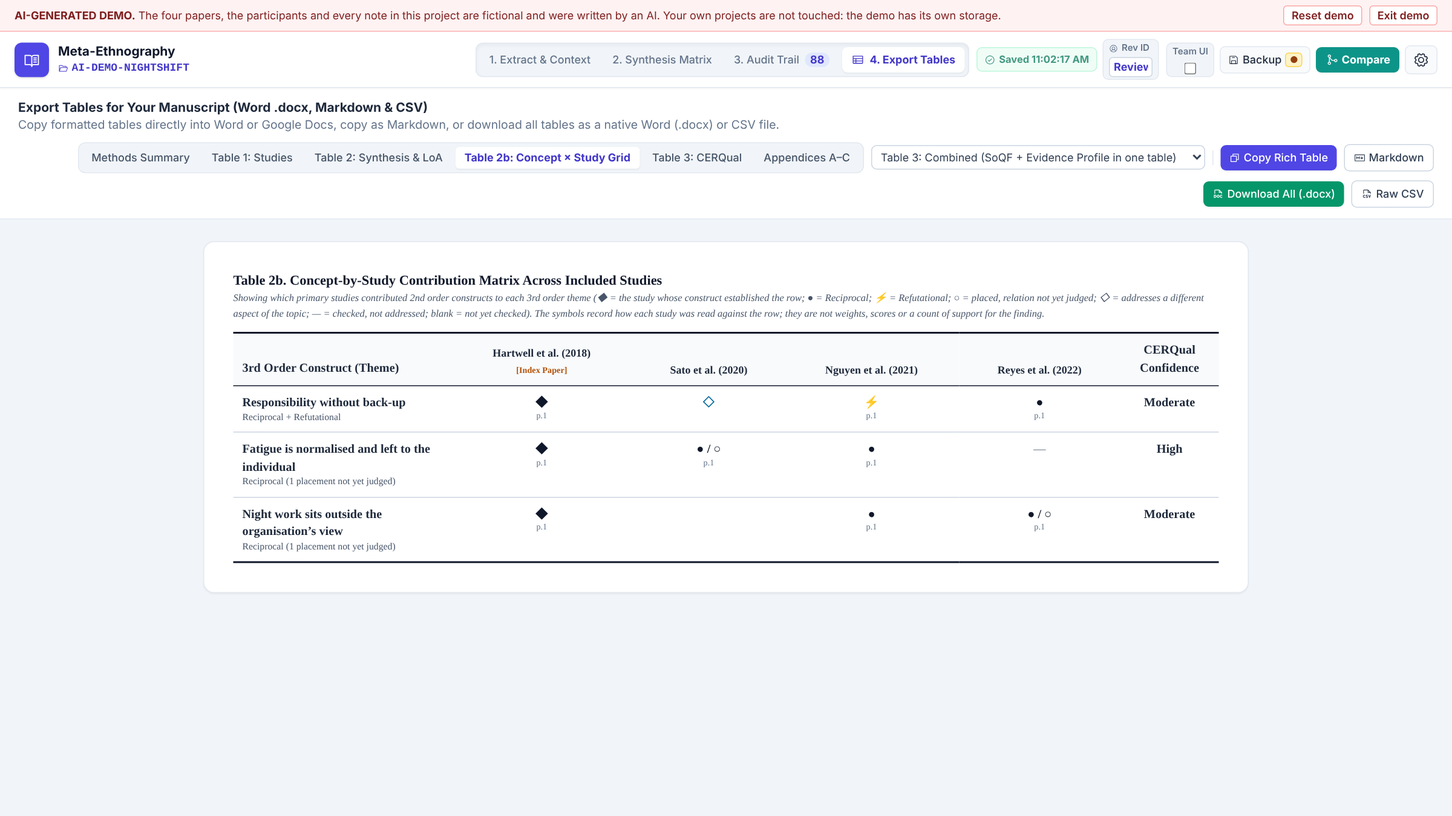
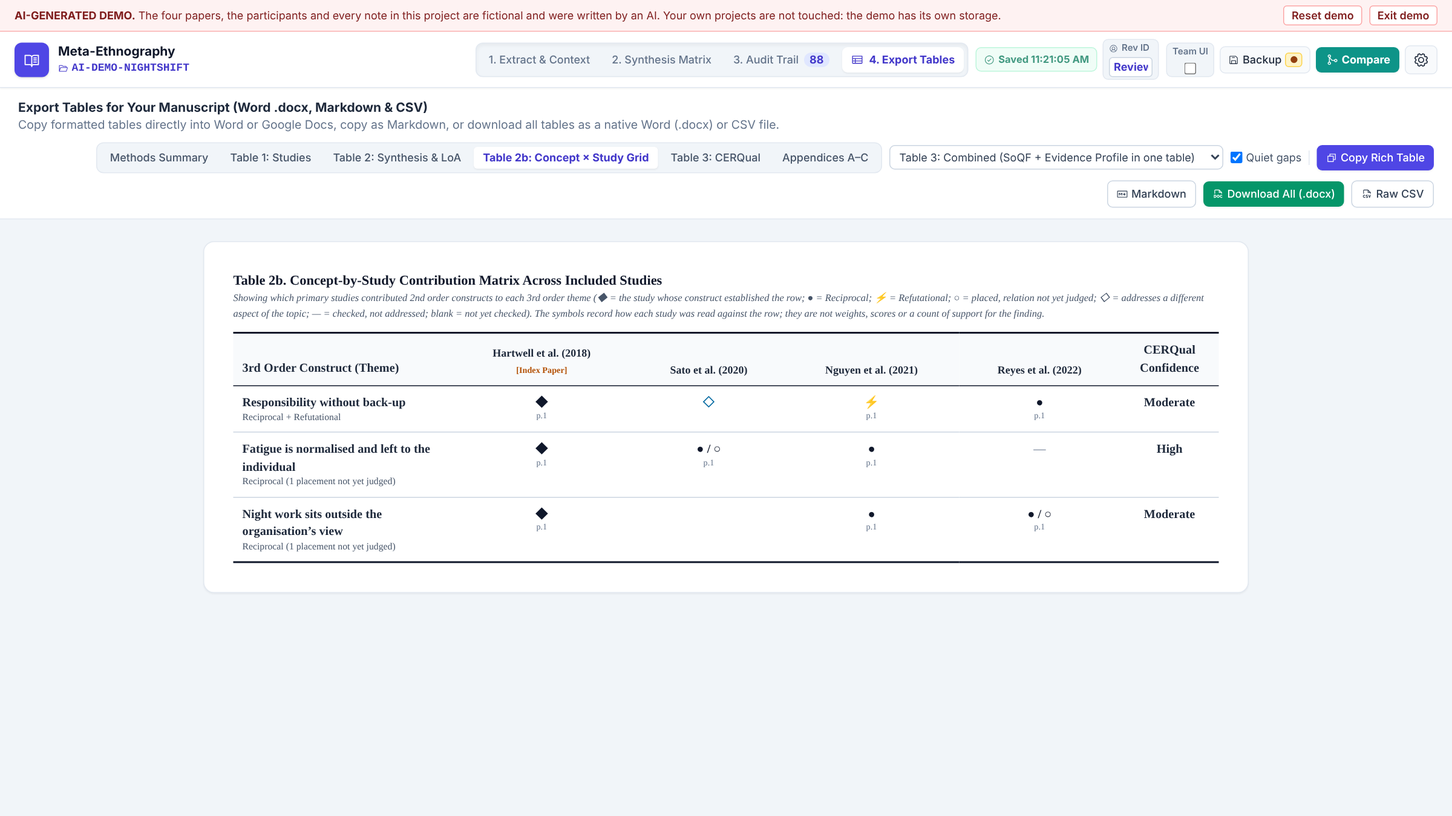
Merge and split rows; quieter write-up gaps while working
- Tab 2: a merge/split button in each row header. Merge moves the row's
  cards into another row with their judgements and notes, adds its Step A,
  Step B, reflexive, team and CERQual-explanation texts to the other row
  (marked with their origin), keeps the other row's CERQual ratings,
  re-points concept-map relations and removes the row. Split moves ticked
  cards into a new row right below. Both are logged with a reason and
  undone with Ctrl+Z; a row's history (historyFrom, logIsForRow) includes
  the rows it absorbed or came from.
- Tab 4: "Quiet gaps" (on by default) shows the [Author to insert] gaps in
  grey in the preview; exports keep the full text. The Methods Summary says
  the gaps are for the write-up.
- Manual, CLAUDE.md, screenshots, smoke tests (merge, split, exact undo,
  quiet gaps, exports unchanged).

Claude-Session: https://claude.ai/code/session_01T9KsJ7E386yhVUZcr5Fo9b

diff --git a/app/js/matrix.js b/app/js/matrix.js
@@ -890,13 +890,14 @@ function renderMatrixTable() {
             <span class="text-xs font-bold uppercase tracking-wider text-indigo-700 bg-indigo-50 px-1.5 py-0.5 rounded">3rd Order</span>
             <button type="button" class="cl-rev-btn text-[11px] bg-slate-200 hover:bg-indigo-100 text-slate-700 px-1.5 py-0.2 rounded font-mono cursor-pointer" title="Click to change reviewer for this 3rd Order row">@${escapeHtml(cluster.by || 'Unknown')}</button>
             <span class="cl-conc-pill text-[11px] px-1.5 py-0.2 rounded border font-semibold ${cBadge.cls}">${cBadge.label}</span>
-            ${(() => { const n = state.logs.filter(l => (l.clusterIds || []).includes(cluster.id)).length; return n ? `<button type="button" class="cl-history-btn text-[11px] px-1.5 py-0.2 rounded border border-purple-300 bg-purple-50 text-purple-800 font-semibold cursor-pointer hover:bg-purple-100" title="Open this row's history in the Audit Trail (${n} entr${n === 1 ? 'y' : 'ies'})">🕘 ${n}</button>` : ''; })()}
+            ${(() => { const n = state.logs.filter(l => logIsForRow(l, cluster)).length; return n ? `<button type="button" class="cl-history-btn text-[11px] px-1.5 py-0.2 rounded border border-purple-300 bg-purple-50 text-purple-800 font-semibold cursor-pointer hover:bg-purple-100" title="Open this row's history in the Audit Trail (${n} entr${n === 1 ? 'y' : 'ies'})">🕘 ${n}</button>` : ''; })()}
             ${cluster.autoSeeded && !cluster.seedConfirmed ? `<button type="button" class="cl-seed-confirm text-[11px] px-1.5 py-0.2 rounded border border-amber-400 bg-amber-100 text-amber-900 font-semibold cursor-pointer" title="Auto-placed from the Index Paper's 2nd order construct. The title is still the primary authors' wording, not yet your 3rd order interpretation. Click once you have reviewed / rewritten it.">🌱 Provisional · click to confirm</button>` : ''}
             <span class="cl-cerqual-pill text-[11px] px-1.5 py-0.2 rounded border font-semibold ${cqBadge.cls}">${cqBadge.label}</span>
           </div>
           <div class="flex items-center space-x-1">
             <button type="button" class="move-cl-up px-1.5 py-0.2 bg-white border border-slate-200 rounded hover:bg-slate-100 text-slate-600 disabled:opacity-30 cursor-pointer text-[11px]" ${state.clusters.indexOf(cluster) === 0 ? 'disabled' : ''} title="Move row up">▲</button>
             <button type="button" class="move-cl-down px-1.5 py-0.2 bg-white border border-slate-200 rounded hover:bg-slate-100 text-slate-600 disabled:opacity-30 cursor-pointer text-[11px]" ${state.clusters.indexOf(cluster) === state.clusters.length - 1 ? 'disabled' : ''} title="Move row down">▼</button>
+            <button type="button" class="cl-rowops text-slate-400 hover:text-indigo-600 cursor-pointer ml-1" title="Merge this row into another, or split some of its cards into a new row"><i class="ph ph-git-merge"></i></button>
             <button class="del-cluster text-slate-400 hover:text-rose-500 cursor-pointer ml-1" title="Delete Row"><i class="ph ph-trash"></i></button>
           </div>
         </div>
@@ -1311,6 +1312,7 @@ function renderMatrixTable() {
       bindPendingCommit(tdMeta.querySelector(sel), saveCerqualChanges);
     });
 
+    tdMeta.querySelector('.cl-rowops').onclick = () => openRowOps(cluster);
     tdMeta.querySelector('.del-cluster').onclick = async () => {
       if (!confirm('Remove this 3rd Order row? Assigned 2nd Order Constructs will remain in the pool/other rows. (You can Undo with Ctrl+Z)')) return;
       const assigned = state.annotations.filter(a => a.type === 'second_order' && a.clusterIds?.includes(cluster.id));
@@ -1828,3 +1830,135 @@ function closeRefutationMap() {
 }
 document.getElementById('refutMapBtn').addEventListener('click', openRefutationMap);
 document.getElementById('refutMapCloseBtn').addEventListener('click', closeRefutationMap);
+
+// ========================================================
+// MERGE / SPLIT ROWS: interpretive decisions, logged with a reason, undoable; nothing written is lost
+// ========================================================
+let rowOpsCluster = null;
+const rowOpsModal = document.getElementById('rowOpsModal');
+function closeRowOps() { rowOpsModal.classList.add('hidden'); rowOpsModal.classList.remove('flex'); rowOpsCluster = null; }
+document.getElementById('rowOpsCloseBtn').onclick = closeRowOps;
+rowOpsModal.addEventListener('click', e => { if (e.target === rowOpsModal) closeRowOps(); });
+
+function rowSecs(c) { return state.annotations.filter(a => a.type === 'second_order' && (a.clusterIds || []).includes(c.id)); }
+function openRowOps(cluster) {
+  flushAllPendingSaves();
+  rowOpsCluster = cluster;
+  document.getElementById('rowOpsTitle').textContent = `Merge or split: ${clusterLabel(cluster)}`;
+  const others = state.clusters.filter(c => c.id !== cluster.id);
+  const sel = document.getElementById('rowOpsMergeTarget');
+  sel.innerHTML = others.length ? others.map(c => `<option value="${escapeHtml(c.id)}">${escapeHtml(clusterLabel(c))}</option>`).join('') : '<option value="">(no other row)</option>';
+  document.getElementById('rowOpsMergeBtn').disabled = !others.length;
+  const secs = rowSecs(cluster);
+  document.getElementById('rowOpsSplitList').innerHTML = secs.length
+    ? secs.map(s => { const d = state.docs.find(x => x.id === s.docId); return `<label class="flex items-start gap-1.5 cursor-pointer"><input type="checkbox" class="row-split-pick mt-0.5" value="${escapeHtml(s.id)}"><span><b>${escapeHtml(d ? getDisplayName(d) : 'Study')}</b> — ${escapeHtml(s.note || String(s.text || '').slice(0, 90))}</span></label>`; }).join('')
+    : '<div class="text-slate-400 italic">No cards in this row.</div>';
+  document.getElementById('rowOpsSplitTitle').value = '';
+  document.getElementById('rowOpsWhy').value = '';
+  rowOpsModal.classList.remove('hidden'); rowOpsModal.classList.add('flex');
+}
+const deepCopy = o => JSON.parse(JSON.stringify(o));
+// Text carried from another row is kept, marked with where it came from
+const carryText = (into, from, title) => from && from.trim() ? (into && into.trim() ? into.trim() + '\n\n' : '') + `[From row "${title}"] ` + from.trim() : (into || '');
+
+async function mergeRows(src, tgt, why) {
+  const srcTitle = clusterLabel(src), tgtTitle = clusterLabel(tgt);
+  const secs = rowSecs(src);
+  pushUndoAction({ type: 'row_merge', label: `Merge "${srcTitle.slice(0, 24)}" into "${tgtTitle.slice(0, 24)}"`,
+    src: deepCopy(src), tgt: deepCopy(tgt), annotations: deepCopy(secs), loa: deepCopy(state.loa) });
+  let moved = 0;
+  for (const s of secs) {
+    normalizeAnnotation(s);
+    s.clusterRelations = s.clusterRelations || {}; s.clusterComments = s.clusterComments || {};
+    if (!s.clusterIds.includes(tgt.id)) {
+      s.clusterIds.push(tgt.id); moved++;
+      if (s.clusterRelations[src.id]) s.clusterRelations[tgt.id] = s.clusterRelations[src.id];
+      if (s.clusterComments[src.id]) s.clusterComments[tgt.id] = s.clusterComments[src.id];
+    } else if (s.clusterComments[src.id] && s.clusterComments[src.id] !== s.clusterComments[tgt.id]) {
+      s.clusterComments[tgt.id] = carryText(s.clusterComments[tgt.id], s.clusterComments[src.id], srcTitle);
+    }
+    s.clusterIds = s.clusterIds.filter(id => id !== src.id);
+    delete s.clusterRelations[src.id]; delete s.clusterComments[src.id];
+    await dbPut('annotations', s);
+  }
+  normalizeCluster(tgt);
+  ['translationSummary', 'synthesisNote', 'reflexiveNote', 'concordanceNote', 'cerqualExplanation'].forEach(k => { tgt[k] = carryText(tgt[k], src[k], srcTitle); });
+  // Empty-cell statuses: kept where the merged row still has nothing of that study
+  Object.entries(src.cellStatus || {}).forEach(([docId, v]) => {
+    const hasCard = rowSecs(tgt).some(a => a.docId === docId);
+    if (!hasCard && !(tgt.cellStatus && tgt.cellStatus[docId])) tgt.cellStatus[docId] = v;
+  });
+  Object.keys(tgt.cellStatus || {}).forEach(docId => { if (rowSecs(tgt).some(a => a.docId === docId)) delete tgt.cellStatus[docId]; });
+  if (!rowBaseDocId(tgt) && rowBaseDocId(src)) tgt.baseDocId = src.baseDocId;
+  tgt.historyFrom = [...new Set([...(tgt.historyFrom || []), src.id, ...(src.historyFrom || [])])];
+  await dbPut('clusters', tgt);
+  // Concept-map relations follow the row; a relation of the two rows to each other, or a duplicate, is dropped
+  if (Array.isArray(state.loa.links)) {
+    const seen = new Set(); const out = [];
+    state.loa.links.forEach(l => {
+      const n = { ...l, from: l.from === src.id ? tgt.id : l.from, to: l.to === src.id ? tgt.id : l.to };
+      const key = n.from + '|' + n.to + '|' + n.type;
+      if (n.from !== n.to && !seen.has(key)) { seen.add(key); out.push(n); }
+    });
+    state.loa = { ...state.loa, links: out }; await dbPut('meta', state.loa);
+  }
+  await dbDelete('clusters', src.id);
+  state.clusters = state.clusters.filter(c => c.id !== src.id);
+  await recordAuditLog({
+    clusterIds: [tgt.id, src.id], category: 'third_order',
+    action: `Merged row "${srcTitle}" into "${tgtTitle}"`,
+    detail: `${moved} construct(s) moved with their judgements and notes; ${secs.length - moved} were already in "${tgtTitle}". Step A / Step B and other texts of "${srcTitle}" were added to "${tgtTitle}", marked with their origin. The CERQual ratings of "${tgtTitle}" were kept: re-read them for the merged finding.`,
+    fromVal: `${srcTitle} + ${tgtTitle}`, toVal: tgtTitle, rationale: why
+  });
+}
+
+async function splitRow(src, secIds, title, why) {
+  const srcTitle = clusterLabel(src);
+  const secs = rowSecs(src).filter(s => secIds.includes(s.id));
+  const nw = await createNewClusterRow(title, { silent: true });
+  const srcBase = rowBaseDocId(src);
+  nw.baseDocId = secs.some(s => s.docId === srcBase) ? srcBase : secs[0].docId;
+  nw.historyFrom = [src.id, ...(src.historyFrom || [])];
+  pushUndoAction({ type: 'row_split', label: `Split ${secs.length} card(s) off "${srcTitle.slice(0, 24)}"`, newId: nw.id, annotations: deepCopy(secs), order: state.clusters.map(c => c.id).filter(id => id !== nw.id) });
+  for (const s of secs) {
+    normalizeAnnotation(s);
+    s.clusterRelations = s.clusterRelations || {}; s.clusterComments = s.clusterComments || {};
+    s.clusterIds = s.clusterIds.filter(id => id !== src.id).concat(nw.id);
+    if (s.clusterRelations[src.id]) s.clusterRelations[nw.id] = s.clusterRelations[src.id];
+    if (s.clusterComments[src.id]) s.clusterComments[nw.id] = s.clusterComments[src.id];
+    delete s.clusterRelations[src.id]; delete s.clusterComments[src.id];
+    await dbPut('annotations', s);
+  }
+  await dbPut('clusters', nw);
+  // The new row sits right below the one it was split from
+  state.clusters = state.clusters.filter(c => c.id !== nw.id);
+  state.clusters.splice(state.clusters.findIndex(c => c.id === src.id) + 1, 0, nw);
+  await persistClusterOrder();
+  await recordAuditLog({
+    clusterIds: [src.id, nw.id], category: 'third_order',
+    action: `Split ${secs.length} construct(s) off "${srcTitle}" into a new row "${clusterLabel(nw)}"`,
+    detail: secs.map(s => { const d = state.docs.find(x => x.id === s.docId); return `${d ? getDisplayName(d) : 'Study'} (p.${s.page}): ${s.note || String(s.text || '').slice(0, 60)}`; }).join('\n'),
+    fromVal: srcTitle, toVal: `${srcTitle} | ${clusterLabel(nw)}`, rationale: why
+  });
+}
+
+document.getElementById('rowOpsMergeBtn').onclick = async () => {
+  const src = rowOpsCluster, tgt = state.clusters.find(c => c.id === document.getElementById('rowOpsMergeTarget').value);
+  if (!src || !tgt) return;
+  const why = document.getElementById('rowOpsWhy').value.trim();
+  closeRowOps();
+  await mergeRows(src, tgt, why);
+  renderLoaClusterChips(); renderMatrixView();
+  showSnackbar(`Merged into "${clusterLabel(tgt)}" — Ctrl+Z to undo`);
+};
+document.getElementById('rowOpsSplitBtn').onclick = async () => {
+  const src = rowOpsCluster; if (!src) return;
+  const ids = [...document.querySelectorAll('.row-split-pick:checked')].map(x => x.value);
+  if (!ids.length) { showSnackbar('Tick the cards to split off.'); return; }
+  const title = document.getElementById('rowOpsSplitTitle').value.trim();
+  const why = document.getElementById('rowOpsWhy').value.trim();
+  closeRowOps();
+  await splitRow(src, ids, title, why);
+  renderLoaClusterChips(); renderMatrixView();
+  showSnackbar(`Split ${ids.length} card(s) into a new row — Ctrl+Z to undo`);
+};

diff --git a/me_canvas.html b/me_canvas.html
@@ -842,6 +842,7 @@
             <button data-pub="appendix" class="pub-tab-btn px-2.5 py-1 text-xs font-medium rounded text-slate-600 hover:text-slate-900 cursor-pointer" title="Appendix A: Audit Trail · Appendix B: Not Translated · Appendix C: Within-Study Links">Appendices A–C</button>
           </div>
           <select id="table3ModeSelect" class="text-xs border border-slate-300 rounded-md px-1.5 py-1 bg-white text-slate-700 cursor-pointer" title="Table 3 layout (GRADE-CERQual). Applies to the preview, Markdown and Word export."></select>
+          <label class="inline-flex items-center gap-1 text-xs text-slate-600 cursor-pointer whitespace-nowrap" title="Show the [Author to insert] gaps in grey while you are still reading and translating. Exports always keep the full gap text."><input type="checkbox" id="quietGapsToggle" class="cursor-pointer"> Quiet gaps</label>
           <div class="h-4 w-px bg-slate-200"></div>
           <button id="copyRichTableBtn" class="px-2.5 py-1.5 bg-indigo-600 hover:bg-indigo-700 text-white text-xs font-medium rounded-md shadow-sm cursor-pointer flex items-center space-x-1" title="Copy formatted table to paste directly into Microsoft Word or Google Docs">
             <i class="ph ph-copy"></i><span>Copy Rich Table</span>
@@ -962,6 +963,35 @@
           <button id="seedChoiceManualBtn" class="px-3 py-1.5 bg-white border border-slate-300 hover:bg-slate-100 text-slate-700 text-xs font-semibold rounded-md cursor-pointer">Start with an empty matrix</button>
           <button id="seedChoiceSeedBtn" class="px-3 py-1.5 bg-amber-600 hover:bg-amber-700 text-white text-xs font-bold rounded-md cursor-pointer">Start from study #1</button>
         </div>
+      </div>
+    </div>
+  </div>
+
+  <div id="rowOpsModal" role="dialog" aria-modal="true" aria-label="Merge or split a row" class="fixed inset-0 bg-slate-900/60 backdrop-blur-sm z-50 hidden items-center justify-center p-6">
+    <div class="bg-white rounded-2xl shadow-2xl border border-slate-200 w-full max-w-lg max-h-[88vh] flex flex-col overflow-hidden">
+      <div class="px-5 py-3.5 bg-slate-900 text-white flex items-center justify-between shrink-0">
+        <h2 id="rowOpsTitle" class="text-sm font-bold">Merge or split a row</h2>
+        <button id="rowOpsCloseBtn" class="p-1.5 text-slate-400 hover:text-white rounded-lg cursor-pointer" title="Close"><i class="ph ph-x text-lg"></i></button>
+      </div>
+      <div class="p-5 space-y-4 text-xs text-slate-700 overflow-y-auto">
+        <p class="text-slate-500">Merging and splitting are interpretive decisions: each is recorded in the Audit Trail with your reason, and the row's history keeps the rows it came from. Ctrl+Z undoes it.</p>
+        <section class="rounded border border-indigo-200 bg-indigo-50/40 p-3 space-y-2">
+          <h3 class="text-xs font-bold text-indigo-900"><i class="ph ph-git-merge"></i> Merge this row into another</h3>
+          <p class="text-slate-600">Its cards move to the other row with their Reciprocal / Refutational judgements and notes. Its Step A, Step B, reflexive note, team note and CERQual explanation are added to the other row's, marked with where they came from; the other row's CERQual ratings are kept, so re-read them. This row is then removed.</p>
+          <label class="block font-semibold text-slate-600">Merge into
+            <select id="rowOpsMergeTarget" class="mt-0.5 w-full text-xs border border-slate-300 rounded px-1.5 py-1 bg-white"></select></label>
+          <div class="flex justify-end"><button id="rowOpsMergeBtn" class="px-3 py-1.5 bg-indigo-600 hover:bg-indigo-700 text-white text-xs font-bold rounded-md cursor-pointer">Merge</button></div>
+        </section>
+        <section class="rounded border border-amber-200 bg-amber-50/40 p-3 space-y-2">
+          <h3 class="text-xs font-bold text-amber-900"><i class="ph ph-git-fork"></i> Split cards off into a new row</h3>
+          <p class="text-slate-600">The cards you tick move to a new row right below this one, with their judgements and notes. This row's texts stay here; write the new row's Step A and Step B.</p>
+          <div id="rowOpsSplitList" class="space-y-1 overflow-y-auto bg-white rounded border border-slate-200 p-2" style="max-height: 12rem"></div>
+          <label class="block font-semibold text-slate-600">Title of the new row
+            <input id="rowOpsSplitTitle" type="text" class="mt-0.5 w-full text-xs border border-slate-300 rounded px-1.5 py-1 bg-white"></label>
+          <div class="flex justify-end"><button id="rowOpsSplitBtn" class="px-3 py-1.5 bg-amber-600 hover:bg-amber-700 text-white text-xs font-bold rounded-md cursor-pointer">Split into a new row</button></div>
+        </section>
+        <label class="block text-xs font-semibold text-slate-600">Why? (optional, saved in the Audit Trail)
+          <textarea id="rowOpsWhy" class="mt-0.5 w-full text-xs border border-slate-300 rounded p-1.5 h-14 resize-y bg-white focus:outline-none focus:border-indigo-500"></textarea></label>
       </div>
     </div>
   </div>

diff --git a/site/manual.html b/site/manual.html
@@ -273,6 +273,7 @@
           <li><strong>Placing Concepts into the Matrix:</strong> Drag any 2nd Order concept from the left pool and drop it into a theme row. It will automatically snap into the column for its study! A single 2nd Order concept can be placed into multiple rows if it relates to more than one theme.</li>
           <li><strong>Using Unlinked 1st Order Quotes:</strong> If a primary study is mostly descriptive and has a rich quote without a clear author concept, click <strong>+ Convert to 2nd Order</strong> (or drag the quote directly into a matrix row) to wrap it into a concept card.</li>
           <li><strong>Reordering Theme Rows:</strong> Use the <span class="text-xs font-mono bg-slate-100 border px-1.5 py-0.5 rounded">▲</span> and <span class="text-xs font-mono bg-slate-100 border px-1.5 py-0.5 rounded">▼</span> buttons on any 3rd Order row header to organize the sequence of your themes.</li>
+          <li><strong>Merging and splitting rows:</strong> Click <i class="ph ph-git-merge"></i> in a row header. <em>Merge</em> moves the row's cards into another row with their Reciprocal / Refutational judgements and notes, adds its Step A, Step B and other notes to that row (marked with where they came from) and removes it; the other row's CERQual ratings are kept, so re-read them. <em>Split</em> moves the cards you tick into a new row right below. Both are recorded in the Audit Trail with your reason, the row's history keeps the rows it came from, and Ctrl+Z undoes them.</li>
           <li><strong>Searching & Filtering the Left Concept Pool:</strong> Use the search box, study dropdown filter, and <strong>⚡ Refut.</strong> checkbox at the top of the left pool to quickly locate specific 2nd Order concepts across dozens of studies.</li>
         </ul>
       </div>
@@ -395,6 +396,7 @@
         <li><strong>Table 2 — Synthesis & Line of Argument:</strong> Shows each 3rd Order Theme, its translation type (derived automatically from the Reciprocal / Refutational setting of each card: Reciprocal, Refutational, or Reciprocal + Refutational; <em>Not yet judged</em> while no card is judged, and <em>Not yet translated</em> while the row holds only one study), your translation summary (Step A) and 3rd order interpretation (Step B), supporting 2nd Order concepts, illustrating 1st Order quotes (with page numbers), contributing studies, and CERQual confidence.</li>
         <li><strong>Table 2b — Concept × Study Contribution Grid:</strong> A compact grid showing which primary studies contributed to each 3rd Order theme (<span class="font-bold">◆</span> = the study whose construct established the row; <span class="font-bold">●</span> = Reciprocal; <span class="font-bold text-rose-700">⚡</span> = Refutational; ○ = placed, not yet judged; ◇ = addresses a different aspect; <code>—</code> = checked, not addressed; blank = not yet checked), along with page numbers. The symbols record how each study was read against the row; they are not weights, scores or a count of support.</li>
         <li><strong>Table 3 — GRADE-CERQual SoQF Table:</strong> A Summary of Qualitative Findings (SoQF) and/or Evidence Profile showing all four CERQual domains and your explanation for each finding. Choose a combined table, SoQF only, Evidence Profile only, or two separate tables (3a / 3b) from the dropdown above the preview.</li>
+        <li><strong>Quiet gaps:</strong> The <em>[Author to insert]</em> gaps in the Methods Summary and the eMERGe mapping are for when you write up. While <strong>Quiet gaps</strong> (next to the Table 3 layout menu) is ticked, they show in grey; untick it to see them in blue. Copied and downloaded exports always keep the full gap text.</li>
         <li><strong>Appendix A — Audit Trail:</strong> A chronological table of your interpretive decisions, team perspective records, and reflexive memos.</li>
         <li><strong>Appendix B — Constructs Not Translated:</strong> Every 2nd Order construct that is in no 3rd Order row, with the reason you recorded on its pool card (eMERGe items 12–13).</li>
         <li><strong>Appendix C — Relationships within Each Study:</strong> How the concepts of each study relate to one another, as recorded in Tab 1 (eMERGe criterion 13).</li>

diff --git a/app/js/export.js b/app/js/export.js
@@ -579,7 +579,7 @@ function appCitationHtml() {
 // ---- Methods Summary: built ONCE as sections, rendered identically to HTML / Markdown / Word ----
 // A sentence ending: no second full stop after a text that already ends with . ? or !
 const endStop = t => /[.?!]\s*$/.test(String(t || '')) ? '' : '.';
-const PH = (t) => `<span style="color:#2563eb; font-weight:bold;">[Author to insert: ${t}]</span>`;
+const PH = (t) => `<span class="mec-gap" style="color:#2563eb; font-weight:bold;">[Author to insert: ${t}]</span>`;
 function getMethodSections() {
   const docCount = state.docs.length;
   const tools = new Set();
@@ -745,7 +745,7 @@ function buildMethodHtml() {
   return `
     <div class="mb-5">
       <h3 style="font-family: Georgia, serif; font-size: 16px; font-weight: bold; color: #0f172a; margin-bottom: 8px;">Methods Summary (structured around eMERGe)</h3>
-      <p style="font-family: Georgia, serif; font-size: 11px; color: #475569; font-style: italic; margin-bottom: 16px;">Compiled from your project data and audit trail. Expand with your analytical rationale before submission.</p>
+      <p style="font-family: Georgia, serif; font-size: 11px; color: #475569; font-style: italic; margin-bottom: 16px;">Compiled from your project data and audit trail. The [Author to insert] gaps are for when you write up: nothing here has to be filled while you are still reading and translating. Expand with your analytical rationale before submission.</p>
       <div style="font-family: Georgia, serif; font-size: 13.5px; color: #1e293b; line-height: 1.6;">${body}</div>
     </div>
     ${buildeMERGeTableHtml()}
@@ -756,7 +756,7 @@ function buildeMERGeTableHtml() {
   const rows = getEmergeChecklist().map(r => {
     const status = r.level === 'app' ? `<b>${escapeHtml(r.text)}</b>`
       : r.level === 'partial' ? `<span style="color:#b45309; font-weight:bold;">Partly: ${escapeHtml(r.text)}</span>`
-      : `<span style="color:#2563eb; font-weight:bold;">[${escapeHtml(r.text)}]</span>`;
+      : `<span class="mec-gap" style="color:#2563eb; font-weight:bold;">[${escapeHtml(r.text)}]</span>`;
     const ph = r.phase ? `<b>${escapeHtml(r.phase).replace('\n', '<br>')}</b>` : '';
     return `<tr><td>${ph}</td><td>${escapeHtml(String(r.no))}. ${escapeHtml(r.title)}</td><td>${escapeHtml(r.desc)}</td><td>${status}</td></tr>`;
   }).join('');
@@ -798,8 +798,12 @@ function buildeMERGeTableHtml() {
   });
 })();
 
+// Gaps for the write-up are shown quietly (grey) while working; exports always keep the full [Author to insert] text
+function quietGaps() { try { return lsGet('me_quiet_gaps') !== '0'; } catch (e) { return true; } }
 function renderPublicationView() {
   const container = document.getElementById('pubPreviewContainer');
+  container.classList.toggle('gaps-quiet', quietGaps());
+  const qt = document.getElementById('quietGapsToggle'); if (qt) qt.checked = quietGaps();
   if (state.activePubTable === 'method') container.innerHTML = buildMethodHtml();
   else if (state.activePubTable === 'table1') container.innerHTML = buildTable1Html();
   else if (state.activePubTable === 'table2') container.innerHTML = buildTable2Html();
@@ -1447,4 +1451,9 @@ document.getElementById('exportCsvBtn').addEventListener('click', () => {
   a.download = `meta_ethnography_synthesis_${projTag}${new Date().toISOString().slice(0, 10)}.csv`;
   a.click();
   setTimeout(() => URL.revokeObjectURL(url), 1000);
+});
+
+document.getElementById('quietGapsToggle')?.addEventListener('change', e => {
+  try { lsSet('me_quiet_gaps', e.target.checked ? '1' : '0'); } catch (err) {}
+  renderPublicationView();
 });

diff --git a/app/js/undo-audit.js b/app/js/undo-audit.js
@@ -131,6 +131,30 @@ async function performUndoStep() {
     });
     updateAuditBadge();
     if (!divAudit.classList.contains('hidden')) renderAuditTimeline();
+  } else if (last.type === 'row_merge' || last.type === 'row_split') {
+    // Put the rows, their constructs and the concept map back exactly as they were before the merge / split
+    const putAnno = async a => {
+      await dbPut('annotations', a);
+      const i = state.annotations.findIndex(x => x.id === a.id);
+      if (i >= 0) state.annotations[i] = normalizeAnnotation(a); else state.annotations.push(normalizeAnnotation(a));
+    };
+    for (const a of last.annotations) await putAnno(a);
+    if (last.type === 'row_merge') {
+      for (const c of [last.src, last.tgt]) {
+        await dbPut('clusters', c);
+        const i = state.clusters.findIndex(x => x.id === c.id);
+        if (i >= 0) state.clusters[i] = normalizeCluster(c); else state.clusters.push(normalizeCluster(c));
+      }
+      state.clusters.sort((a, b) => (a.order ?? a.createdAt ?? 0) - (b.order ?? b.createdAt ?? 0));
+      state.loa = last.loa; await dbPut('meta', state.loa);
+    } else {
+      await dbDelete('clusters', last.newId);
+      state.clusters = last.order.map(id => state.clusters.find(c => c.id === id)).filter(Boolean);
+      await persistClusterOrder();
+    }
+    await recordAuditLog({ category: 'third_order', action: `Undid: ${last.label}`, detail: '', clusterIds: last.type === 'row_merge' ? [last.src.id, last.tgt.id] : [last.newId] });
+    renderLoaClusterChips();
+    if (!divMatrix.classList.contains('hidden')) renderMatrixView();
   } else if (last.type === 'unassign_cluster') {
     const sec = state.annotations.find(a => a.id === last.secId);
     if (sec) {

diff --git a/app/js/core.js b/app/js/core.js
@@ -455,6 +455,9 @@ function secEvidenceText(s) {
 // "into" the row, so no reciprocal/refutational relation applies to them there. In index-paper approaches this is usually
 // study #1, but a row can also start from a later study (a concept #1 does not have), and the reviewer can choose that no
 // single study establishes a row (baseDocId null: every placement is judged). '' = not set yet: the first study placed sets it.
+// A row's history covers its own entries and those of the rows it was merged from or split off
+function rowHistoryIds(c) { return new Set([c.id, ...((c && c.historyFrom) || [])]); }
+function logIsForRow(l, c) { const ids = rowHistoryIds(c); return (l.clusterIds || []).some(id => ids.has(id)); }
 function clusterById(cid) { return state.clusters.find(c => c && c.id === cid) || null; }
 function rowBaseDocId(c) {
   const id = c && c.baseDocId;
@@ -575,6 +578,8 @@ function normalizeCluster(c) {
     const d0 = state.docs[0];
     c.baseDocId = d0 && state.annotations.some(a => a.type === 'second_order' && a.docId === d0.id && (a.clusterIds || []).includes(c.id)) ? d0.id : null;
   } else if (c.baseDocId !== null && typeof c.baseDocId !== 'string') c.baseDocId = null;
+  // Rows this row was merged from or split off (their history belongs to this row's history too)
+  if (!Array.isArray(c.historyFrom)) c.historyFrom = [];
   delete c.translationType; // removed: a row's reciprocal / refutational character is derived from its cells (clusterTranslationType)
   return c;
 }

diff --git a/app/js/audit-view.js b/app/js/audit-view.js
@@ -14,7 +14,7 @@ function clusterTitleHistory(cluster) {
   const titles = [];
   const add = t => { t = (t || '').trim(); if (t && !/^\(untitled/i.test(t) && !titles.includes(t)) titles.push(t); };
   state.logs
-    .filter(l => l.action === 'Refined 3rd Order Construct Title' && (l.clusterIds || []).includes(cluster.id))
+    .filter(l => l.action === 'Refined 3rd Order Construct Title' && logIsForRow(l, cluster))
     .sort((a, b) => (a.timestamp || 0) - (b.timestamp || 0))
     .forEach(l => { add(l.fromVal); add(l.toVal); });
   add(cluster.thirdOrderTitle);
@@ -112,7 +112,7 @@ function renderAuditTimeline() {
   const rowCluster = rowFilter !== 'all' ? state.clusters.find(c => c.id === rowFilter) : null;
   if (rowCluster) {
     const titles = clusterTitleHistory(rowCluster);
-    list = list.filter(l => (l.clusterIds || []).includes(rowCluster.id));
+    list = list.filter(l => logIsForRow(l, rowCluster));
     // Oldest first: read the row's evolution top to bottom
     list = [...list].sort((a, b) => (a.timestamp || 0) - (b.timestamp || 0));
     const head = document.createElement('div');

diff --git a/app/css/me_canvas.css b/app/css/me_canvas.css
@@ -67,3 +67,6 @@ textarea.auto-grow { max-height: 60vh; overflow-y: auto; }
 .matrix-theme-folded .theme-strip-num { font-size: 11px; font-weight: 700; color: #4338ca; }
 .matrix-theme-folded .theme-strip-title { writing-mode: vertical-rl; max-height: 11rem; overflow: hidden; text-overflow: ellipsis; white-space: nowrap; font-size: 12px; font-weight: 600; color: #334155; }
 .matrix-theme-folded .matrix-context-row td:first-child > * { display: none; }
+
+/* Tab 4: write-up gaps shown quietly while working (exports unchanged) */
+#pubPreviewContainer.gaps-quiet .mec-gap { color: #94a3b8 !important; font-weight: 400 !important; }

diff --git a/CLAUDE.md b/CLAUDE.md
@@ -100,6 +100,8 @@ The website's offline-ZIP link is built from that tag (`site/js/site.js`), becau
   2nd order → rows are `clusterIds[]` with per-row `clusterRelations` / `clusterComments`. Each row records the study whose construct
   established it (`cluster.baseDocId`; null = no single base, '' = set by the first construct placed): only that study's cards are
   unjudged ◆ in the row (`secRelation()`); study #1 is not the base of every row.
+  Rows can be merged and split (matrix.js `mergeRows()` / `splitRow()`, logged, undoable); a row lists the rows it absorbed or
+  was split from in `historyFrom`, and its history (`logIsForRow()`) includes theirs.
 - Every interpretive change is logged with `recordAuditLog({ category, action, detail, fromVal, toVal, clusterIds })`.
   Pass `clusterIds` whenever the entry concerns 3rd order rows (the row history filter relies on it).
 - Text fields that write an audit entry must use `bindPendingCommit(el, commitFn)` (core.js), not a bare `onchange`: the commit
